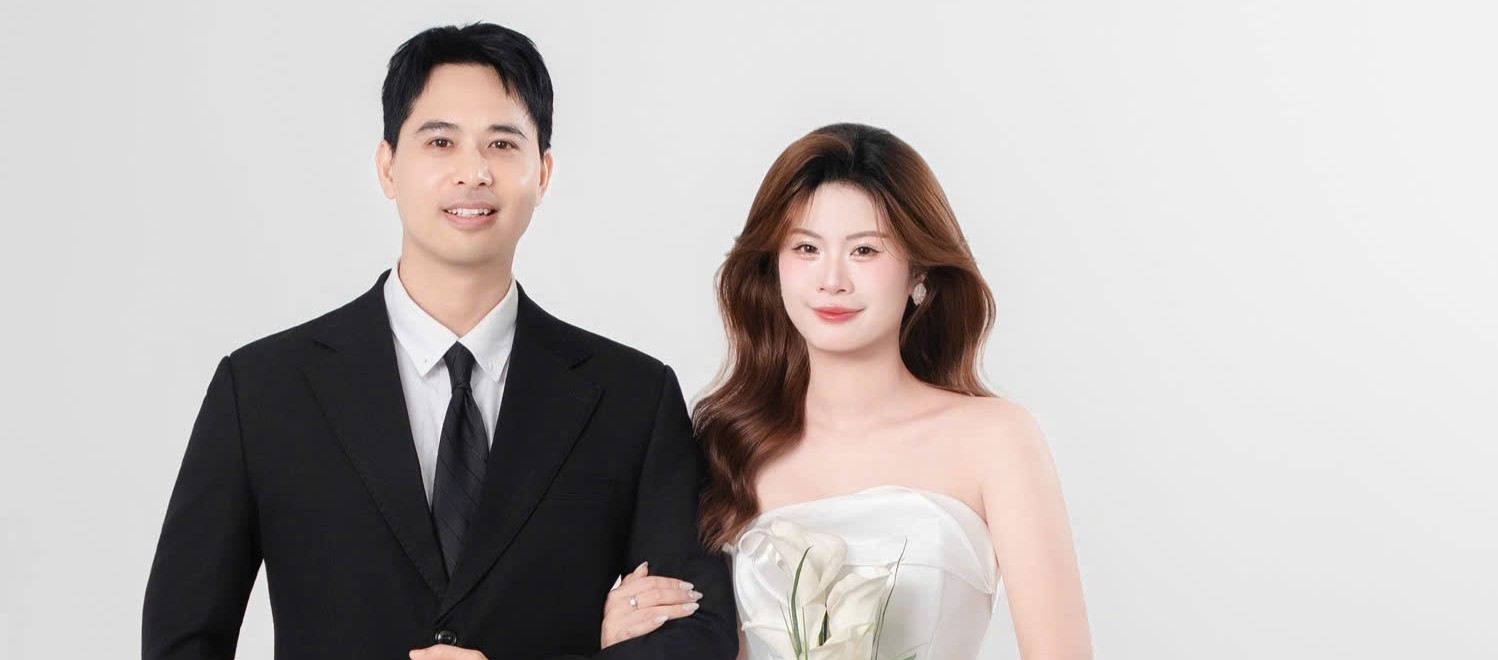
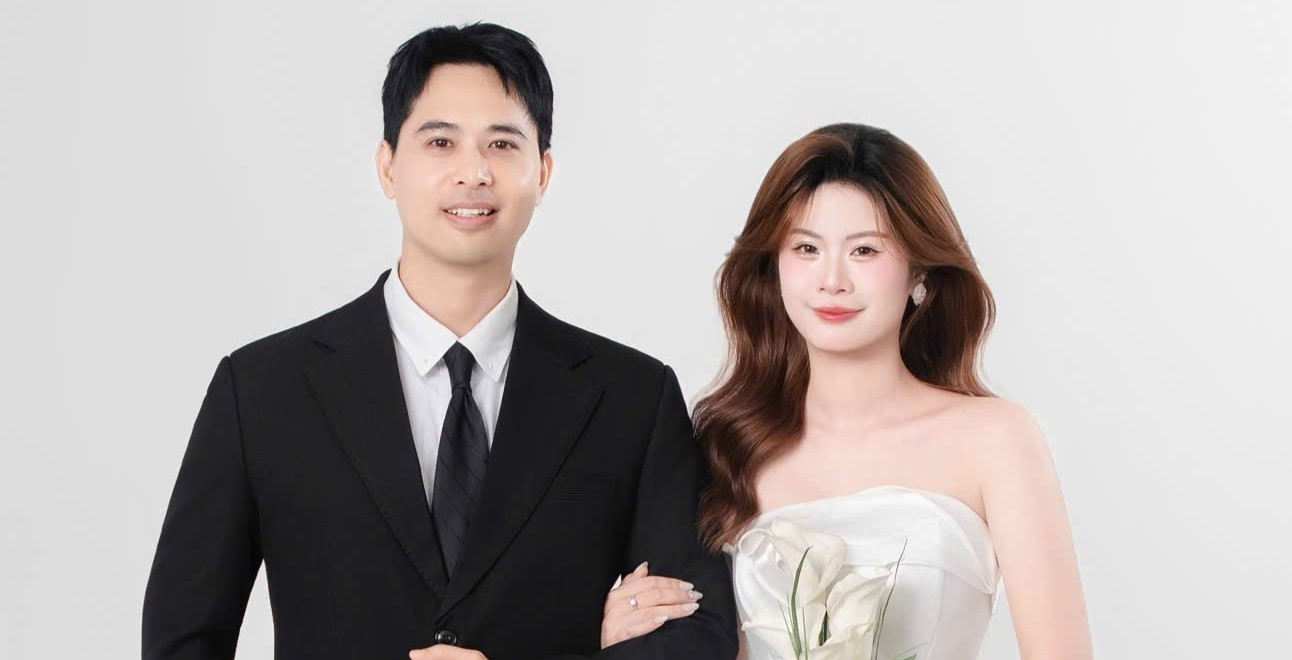
fix prev

diff --git a/index.html b/index.html
@@ -2,7 +2,7 @@
     <meta charset="UTF-8">
     <meta name="viewport" content="width=device-width, initial-scale=1">
     <link rel="profile" href="https://gmpg.org/xfn/11">
-    <meta property="og:image" content="https://lswedding.s3.ap-southeast-1.amazonaws.com/weddings/5/LL7rXnSs0KjG3hXGyzmg7lMTsmtXkk66q39wK7ii.jpg">
+    <meta property="og:image" content="https://lswedding.s3.ap-southeast-1.amazonaws.com/weddings/5/YzwG4IqkltueMA6GRMRuyBH18PP2NVa1fqB3JlC9.jpg">
 
     <!-- Search Engine Optimization by Rank Math - https://rankmath.com/ -->
     <title> Nguyễn Dũng ❤ Mỹ Hạnh - Thiệp cưới online</title>
@@ -14,15 +14,15 @@
     <meta property="og:url" content="https://thiepmoionline68.github.io/DungHanh-Wedding/">
     <meta property="og:site_name" content="Nguyễn Dũng ❤Mỹ Hạnh">
     <meta property="og:updated_time" content="2024-03-13T11:56:14+00:00">
-    <meta property="og:image" content="https://lswedding.s3.ap-southeast-1.amazonaws.com/weddings/5/LL7rXnSs0KjG3hXGyzmg7lMTsmtXkk66q39wK7ii.jpg">
-    <meta property="og:image:secure_url" content="https://lswedding.s3.ap-southeast-1.amazonaws.com/weddings/5/LL7rXnSs0KjG3hXGyzmg7lMTsmtXkk66q39wK7ii.jpg">
+    <meta property="og:image" content="https://lswedding.s3.ap-southeast-1.amazonaws.com/weddings/5/YzwG4IqkltueMA6GRMRuyBH18PP2NVa1fqB3JlC9.jpg">
+    <meta property="og:image:secure_url" content="https://lswedding.s3.ap-southeast-1.amazonaws.com/weddings/5/YzwG4IqkltueMA6GRMRuyBH18PP2NVa1fqB3JlC9.jpg">
     <meta property="og:image:width" content="961">
     <meta property="og:image:height" content="1440">
     <meta property="og:image:alt" content="Thiệp 01">
     <meta property="og:image:type" content="image/jpeg">
     <meta name="twitter:card" content="summary_large_image">
     <meta name="twitter:title" content="Nguyễn Dũng❤ Mỹ Hạnh">
-    <meta name="twitter:image" content="https://lswedding.s3.ap-southeast-1.amazonaws.com/weddings/5/LL7rXnSs0KjG3hXGyzmg7lMTsmtXkk66q39wK7ii.jpg">
+    <meta name="twitter:image" content="https://lswedding.s3.ap-southeast-1.amazonaws.com/weddings/5/YzwG4IqkltueMA6GRMRuyBH18PP2NVa1fqB3JlC9.jpg">
     <!-- /Rank Math WordPress SEO plugin -->
 
     <link rel="dns-prefetch" href="//cdn.jsdelivr.net">
